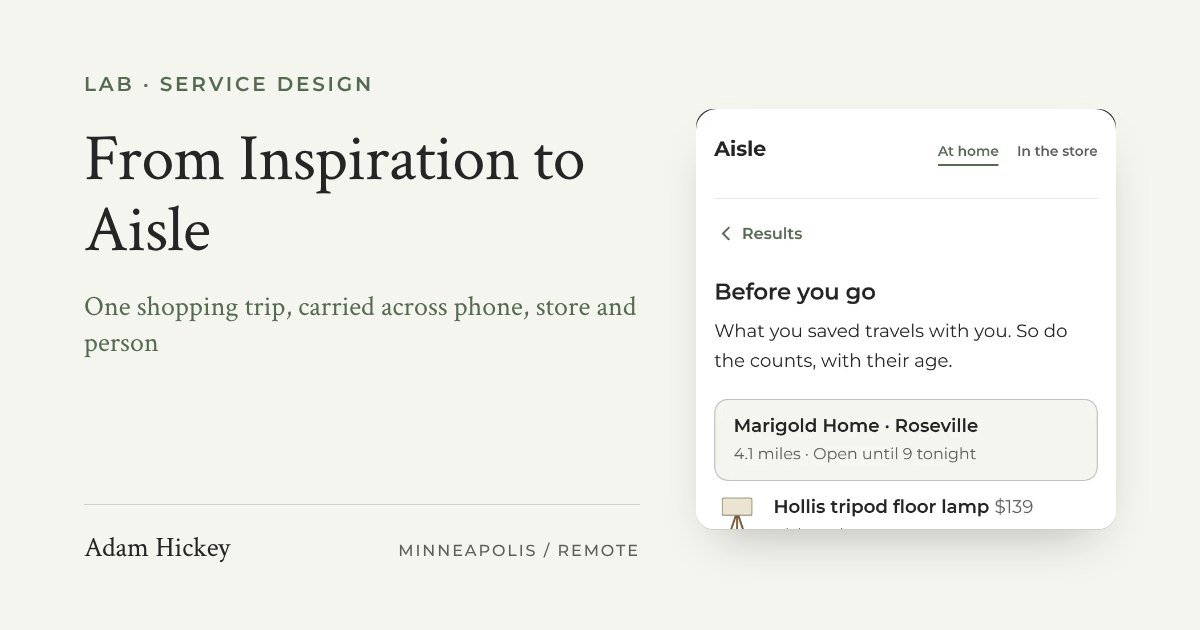
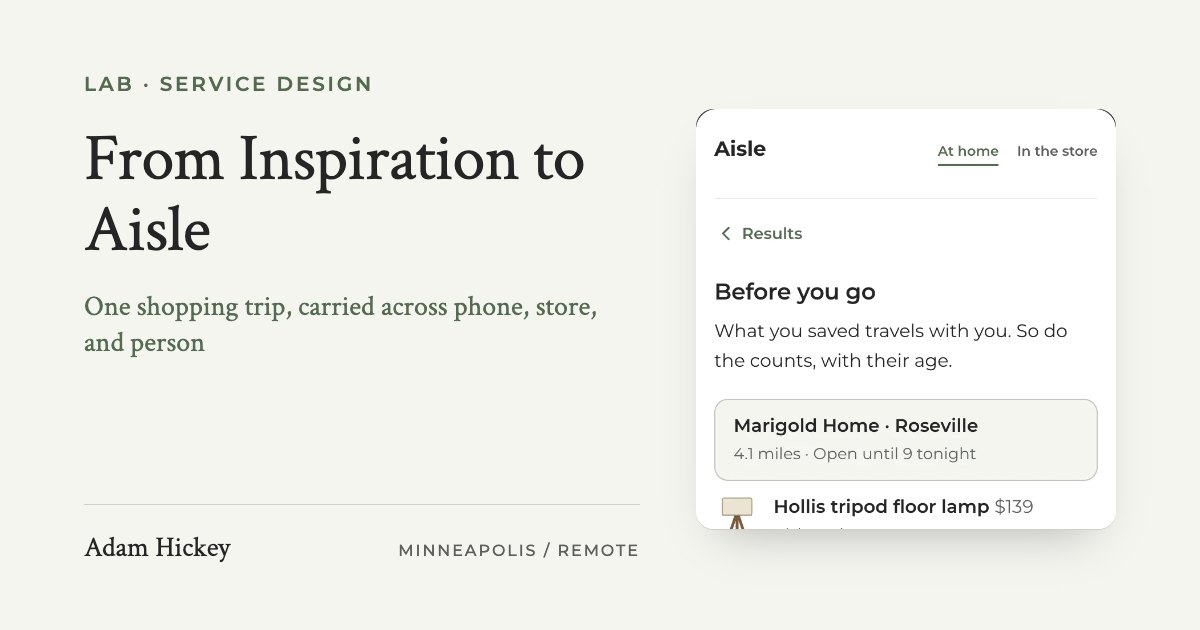
The Oxford comma is a rule: VOICE.md's habits table now says every list of three or more takes the comma before the "and" or "or", in titles, metadata, and share cards too, and the spec's own four lists follow it. From Inspiration to Aisle reads "carried across phone, store, and person" in its title

diff --git a/lab/inspiration-to-aisle.html b/lab/inspiration-to-aisle.html
@@ -11,14 +11,14 @@
   </script>
   <meta charset="utf-8" />
   <meta name="viewport" content="width=device-width, initial-scale=1" />
-  <title>From Inspiration to Aisle: One Shopping Trip, Carried Across Phone, Store and Person | Adam Hickey</title>
-  <meta name="description" content="An independent service design exploration: how might shopping feel like one continuous experience across digital discovery, a physical store and human assistance? One trip from a photo of a friend's lamp to a store aisle, as research questions, a journey map, a simplified service blueprint, a working prototype of the digital-to-store transition, and a plan for what to test first. Sample data; not affiliated with any retailer." />
+  <title>From Inspiration to Aisle: One Shopping Trip, Carried Across Phone, Store, and Person | Adam Hickey</title>
+  <meta name="description" content="An independent service design exploration: how might shopping feel like one continuous experience across digital discovery, a physical store, and human assistance? One trip from a photo of a friend's lamp to a store aisle, as research questions, a journey map, a simplified service blueprint, a working prototype of the digital-to-store transition, and a plan for what to test first. Sample data; not affiliated with any retailer." />
 
   <link rel="canonical" href="https://adamhickey.com/lab/inspiration-to-aisle.html" />
   <meta property="og:type" content="article" />
   <meta property="og:url" content="https://adamhickey.com/lab/inspiration-to-aisle.html" />
-  <meta property="og:title" content="From Inspiration to Aisle: One Shopping Trip, Carried Across Phone, Store and Person | Adam Hickey" />
-  <meta property="og:description" content="An independent service design exploration: how might shopping feel like one continuous experience across digital discovery, a physical store and human assistance? One trip from a photo of a friend's lamp to a store aisle, as research questions, a journey map, a simplified service blueprint, a working prototype of the digital-to-store transition, and a plan for what to test first. Sample data; not affiliated with any retailer." />
+  <meta property="og:title" content="From Inspiration to Aisle: One Shopping Trip, Carried Across Phone, Store, and Person | Adam Hickey" />
+  <meta property="og:description" content="An independent service design exploration: how might shopping feel like one continuous experience across digital discovery, a physical store, and human assistance? One trip from a photo of a friend's lamp to a store aisle, as research questions, a journey map, a simplified service blueprint, a working prototype of the digital-to-store transition, and a plan for what to test first. Sample data; not affiliated with any retailer." />
   <meta property="og:image" content="https://adamhickey.com/img/og/inspiration-to-aisle.jpg?v=1" />
   <meta property="og:image:width" content="1200" />
   <meta property="og:image:height" content="630" />
@@ -35,8 +35,8 @@
         {
           "@type": "Article",
           "@id": "https://adamhickey.com/lab/inspiration-to-aisle.html#article",
-          "headline": "From Inspiration to Aisle: one shopping trip, carried across phone, store and person",
-          "description": "An independent service design exploration: how might shopping feel like one continuous experience across digital discovery, a physical store and human assistance? One trip from a photo of a friend's lamp to a store aisle, as research questions, a journey map, a simplified service blueprint, a working prototype of the digital-to-store transition, and a plan for what to test first. Sample data; not affiliated with any retailer.",
+          "headline": "From Inspiration to Aisle: one shopping trip, carried across phone, store, and person",
+          "description": "An independent service design exploration: how might shopping feel like one continuous experience across digital discovery, a physical store, and human assistance? One trip from a photo of a friend's lamp to a store aisle, as research questions, a journey map, a simplified service blueprint, a working prototype of the digital-to-store transition, and a plan for what to test first. Sample data; not affiliated with any retailer.",
           "url": "https://adamhickey.com/lab/inspiration-to-aisle.html",
           "mainEntityOfPage": "https://adamhickey.com/lab/inspiration-to-aisle.html",
           "image": "https://adamhickey.com/img/og/inspiration-to-aisle.jpg?v=1",
@@ -217,7 +217,7 @@
         <div>
           <p class="case-kicker">Lab &middot; From Inspiration to Aisle &middot; <span class="case-readtime">13 min read</span></p>
           <h1 class="case-title">From Inspiration to Aisle</h1>
-          <p class="build-dek">How might shopping feel like one continuous experience across digital discovery, a physical store and a person who works there? One trip, followed from a photo at a friend&rsquo;s house to a store aisle, as questions, a journey, a service blueprint and a working prototype.</p>
+          <p class="build-dek">How might shopping feel like one continuous experience across digital discovery, a physical store, and a person who works there? One trip, followed from a photo at a friend&rsquo;s house to a store aisle, as questions, a journey, a service blueprint and a working prototype.</p>
           <p class="build-hero-act" data-read-aloud="skip after">
             <a class="btn btn-primary" href="../prototype/aisle.html">Try the prototype</a>
           </p>
@@ -497,7 +497,7 @@
              question, hypothesis, prototype, evaluation, decision,
              learning. Two cells say "not yet", on purpose. -->
         <dl class="build-facts build-facts--three ia-loop">
-          <div><dt>Question</dt><dd>Can one trip feel continuous across a phone, a store and a person?</dd></div>
+          <div><dt>Question</dt><dd>Can one trip feel continuous across a phone, a store, and a person?</dd></div>
           <div><dt>Hypothesis</dt><dd>Carry the context, say how sure, hand off on purpose.</dd></div>
           <div><dt>Prototype</dt><dd>Seven screens on sample data, built in a few days with Claude Code.</dd></div>
           <div><dt>Evaluation</dt><dd>Not yet. The five-person study above is the next step.</dd></div>

diff --git a/lab/index.html b/lab/index.html
@@ -12,13 +12,13 @@
   <meta charset="utf-8" />
   <meta name="viewport" content="width=device-width, initial-scale=1" />
   <title>Design Systems for Humans and Agents | Adam Hickey</title>
-  <meta name="description" content="What design has to supply once coding agents build, tested in working software: a system that explains itself, checks that hold, and a clear line where a person decides. From Inspiration to Aisle, a service design exploration of one shopping trip across phone, store and person; Agent Review, a prototype for knowing when a coding agent should proceed, ask a person or wait for approval, and a working prototype of operational software on synthetic data, introduced by the article What makes a good product designer now?" />
+  <meta name="description" content="What design has to supply once coding agents build, tested in working software: a system that explains itself, checks that hold, and a clear line where a person decides. From Inspiration to Aisle, a service design exploration of one shopping trip across phone, store, and person; Agent Review, a prototype for knowing when a coding agent should proceed, ask a person or wait for approval, and a working prototype of operational software on synthetic data, introduced by the article What makes a good product designer now?" />
 
   <link rel="canonical" href="https://adamhickey.com/lab/index.html" />
   <meta property="og:type" content="website" />
   <meta property="og:url" content="https://adamhickey.com/lab/index.html" />
   <meta property="og:title" content="Design Systems for Humans and Agents | Adam Hickey" />
-  <meta property="og:description" content="What design has to supply once coding agents build, tested in working software: a system that explains itself, checks that hold, and a clear line where a person decides. From Inspiration to Aisle, a service design exploration of one shopping trip across phone, store and person; Agent Review, a prototype for knowing when a coding agent should proceed, ask a person or wait for approval, and a working prototype of operational software on synthetic data, introduced by the article What makes a good product designer now?" />
+  <meta property="og:description" content="What design has to supply once coding agents build, tested in working software: a system that explains itself, checks that hold, and a clear line where a person decides. From Inspiration to Aisle, a service design exploration of one shopping trip across phone, store, and person; Agent Review, a prototype for knowing when a coding agent should proceed, ask a person or wait for approval, and a working prototype of operational software on synthetic data, introduced by the article What makes a good product designer now?" />
   <meta property="og:image" content="https://adamhickey.com/img/og/lab.jpg?v=19" />
   <meta property="og:image:width" content="1200" />
   <meta property="og:image:height" content="630" />
@@ -35,7 +35,7 @@
           "@type": "CollectionPage",
           "@id": "https://adamhickey.com/lab/index.html#page",
           "name": "Design systems for humans and agents",
-          "description": "What design has to supply once coding agents build, tested in working software: a system that explains itself, checks that hold, and a clear line where a person decides. From Inspiration to Aisle, a service design exploration of one shopping trip across phone, store and person; Agent Review, a prototype for knowing when a coding agent should proceed, ask a person or wait for approval, and a working prototype of operational software on synthetic data, introduced by the article What makes a good product designer now?",
+          "description": "What design has to supply once coding agents build, tested in working software: a system that explains itself, checks that hold, and a clear line where a person decides. From Inspiration to Aisle, a service design exploration of one shopping trip across phone, store, and person; Agent Review, a prototype for knowing when a coding agent should proceed, ask a person or wait for approval, and a working prototype of operational software on synthetic data, introduced by the article What makes a good product designer now?",
           "url": "https://adamhickey.com/lab/index.html",
           "isPartOf": {
             "@id": "https://adamhickey.com/#website"
@@ -296,14 +296,14 @@
           </li>
           <!-- FROM INSPIRATION TO AISLE, the newest piece, since 2026-10-28:
                a service design exploration of one shopping trip across a
-               phone, a store and a person, with its prototype at its own
+               phone, a store, and a person, with its prototype at its own
                address under /prototype/. An independent concept; the entry
                says so in its dek, as the page does in its first screen. -->
           <li class="writing-item">
             <a class="writing-link" href="inspiration-to-aisle.html">
               <img class="writing-card" src="../img/lab/aisle-card.webp?v=2" width="1600" height="900" alt="" decoding="async" />
               <div class="writing-text">
-                <h3 class="writing-title">From Inspiration to Aisle: one shopping trip, carried across phone, store and person</h3>
+                <h3 class="writing-title">From Inspiration to Aisle: one shopping trip, carried across phone, store, and person</h3>
                 <p class="writing-dek">A photo of a friend&rsquo;s lamp, four matches that say why, and a trip into a store with the context intact. An independent concept on sample data, not tested with shoppers yet.</p>
                 <ul class="build-list writing-points">
                   <li>A journey map and a service blueprint</li>

diff --git a/VOICE.md b/VOICE.md
@@ -2,8 +2,8 @@
 
 How the words on adamhickey.com sound, how long they run, and what they may
 claim. Read it before writing or rewriting copy on any page, the same way
-the four visual specs are read before a change to color, type, spacing or
-motion.
+the four visual specs are read before a change to color, type, spacing,
+or motion.
 
 This document is normative, and it came out of a comparison rather than a
 preference. On 2026-10-21 four of the articles were rewritten as spoken
@@ -74,6 +74,7 @@ the essays that prompted this page are full of them.
 | One-line paragraphs in a run | Two in a row at most. One is a beat; five is a drumroll. |
 | "Imagine..." as the opener | Once a page, and only for a scene that didn't happen to you. A real one is better. |
 | "prose," British spellings, sans italics | Never: plain American, and emphasis is bold. |
+| A list of three or more with no comma before the "and" or "or": "phone, store and person" | Never. Always the Oxford comma: "phone, store, and person." In titles, metadata, and share cards too. |
 
 ---
 
@@ -118,14 +119,14 @@ sentences anywhere else, with a link.
   sentences that stand alone (README, Deployment). The voice changes the
   body, not those.
 - **About's first sentence is the machine's.** "Adam Hickey is a senior
-  product designer in Minneapolis..." says who, what and where in the words
+  product designer in Minneapolis..." says who, what, and where in the words
   the JSON-LD Person says, so an assistant can quote it. It is the one
   paragraph the 40-word cap doesn't apply to.
 - **Each h2 is one key idea, as a sentence.** `node scripts/keys.mjs
   --write` writes the list and the eyebrows from them, so reword a heading
   and run it in the same commit.
-- **Lists are for real lists.** Steps, figures and options stay as lists and
-  rails. An argument goes in short paragraphs.
+- **Lists are for real lists.** Steps, figures, and options stay as lists
+  and rails. An argument goes in short paragraphs.
 
 ---
 
@@ -134,8 +135,8 @@ sentences anywhere else, with a link.
 The audit of 2026-10-21 measured every word a reader sees: 46,000 across the
 31 reading pages, with 329 of 1,060 paragraphs over 40 words and 81 over 60.
 The targets are set in **running text** instead, meaning the paragraphs and
-the list items between them. Figure labels, captions, the key-ideas list and
-the recap don't count, because they're what a skimming reader reads instead
+the list items between them. Figure labels, captions, the key-ideas list,
+and the recap don't count, because they're what a skimming reader reads instead
 of the paragraphs. An article with five drawn rails carries about 300 words
 of them, and cutting those would make the page longer to read.
 

diff --git a/README.md b/README.md
@@ -209,7 +209,7 @@ Tailwind stylesheet, which cannot see anything `style.css` declares.
 | Writing | 17 | A | An index, the two pieces it opens with under "Start here" (a personal essay since 2026-10-27, then the position article of 2026-10-20), and nine articles in three collections named for its three words since 2026-10-20: the system, the build, the judgment. Five more keep their addresses off the index. |
 | Reference | 1 | A | The design system page. Unlisted; nothing links to it. |
 | Prototypes | 3 | A | Self-directed, interactive prototypes framed as design work: the dispatch cockpit on synthetic data, since 2026-10-27 its interface on live Citi Bike data, the rebalancing cockpit, and since 2026-10-28 Aisle, the phone-sized prototype of From Inspiration to Aisle, on sample data. The deploy console was a second until 2026-10-23. |
-| Lab | 4 | A | The index of the experiments in React, AI-assisted prototyping and component systems, the Agent Review case study, since 2026-10-28 From Inspiration to Aisle, a service design exploration of one shopping trip across phone, store and person, and since 2026-10-21 an exploration of motion, the homepage's former scroll story. The rebalancing cockpit is listed there too, at its own address, in the dispatch cockpit's place since 2026-10-27. Since 2026-10-01 the homepage reaches it from one card under Selected work and from the navigation. |
+| Lab | 4 | A | The index of the experiments in React, AI-assisted prototyping and component systems, the Agent Review case study, since 2026-10-28 From Inspiration to Aisle, a service design exploration of one shopping trip across phone, store, and person, and since 2026-10-21 an exploration of motion, the homepage's former scroll story. The rebalancing cockpit is listed there too, at its own address, in the dispatch cockpit's place since 2026-10-27. Since 2026-10-01 the homepage reaches it from one card under Selected work and from the navigation. |
 | Other work | 1 | A | The book and the identity shelf, off the homepage since the hire-me pass, and since 2026-10-26 the dispatch case study, filed at the foot. |
 
 **Homepage** -- `index.html`
